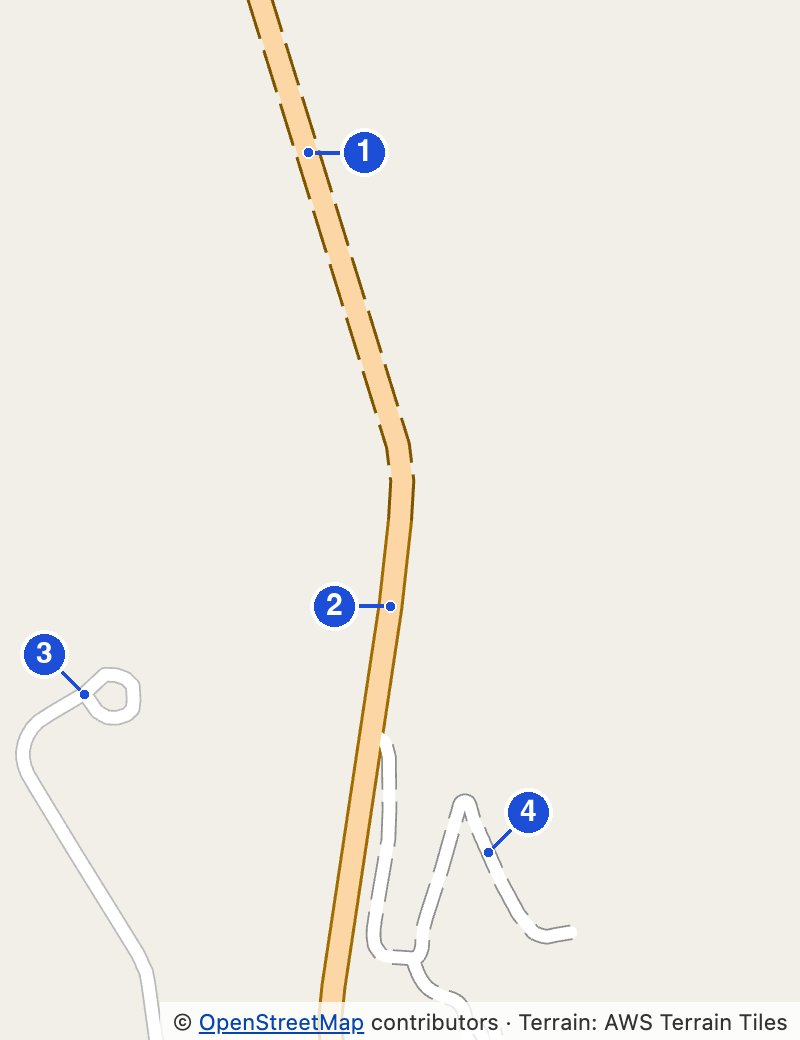
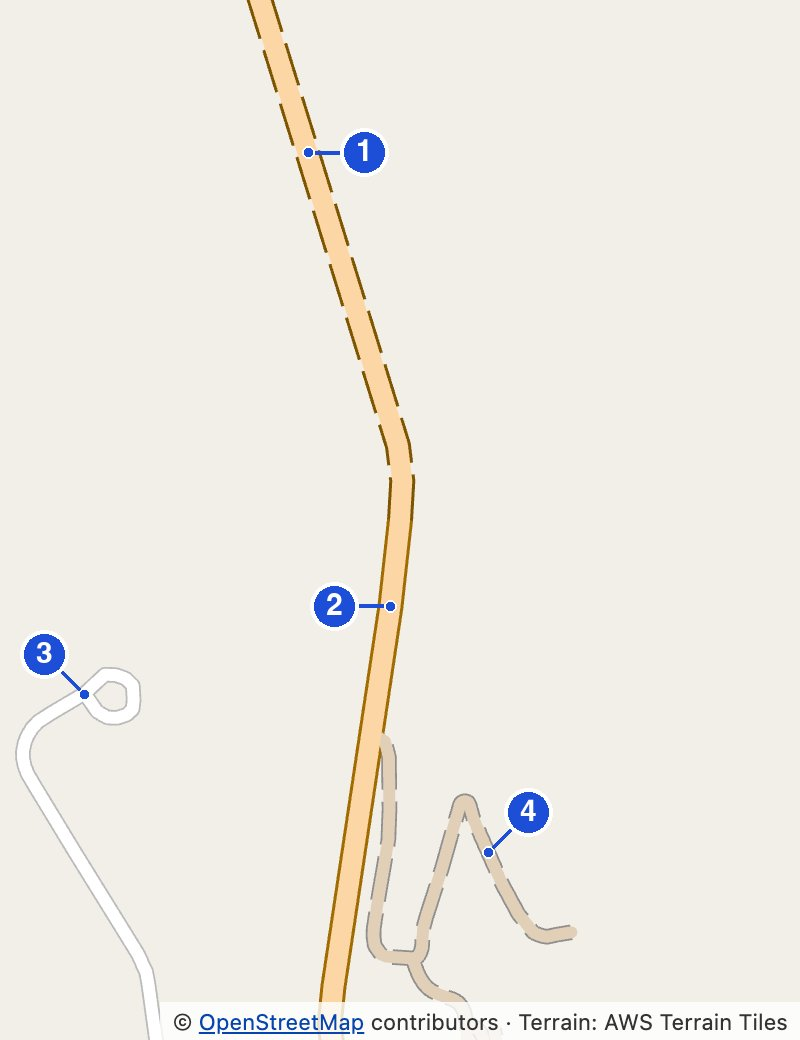
Reader test: picture set 2, dashed casing with the light tan fill on white unpaved roads; sessions tagged images: 2, picture URLs versioned so no cached set 1 shows

Changed region(s): [[0.4375, 0.7077, 0.7188, 0.9846]]

diff --git a/reader-test/index.html b/reader-test/index.html
@@ -104,6 +104,9 @@ const ENDPOINT = 'https://script.google.com/macros/s/AKfycbzgqOhJDVLUKdfWqVI3aOc
 
 const PLACES = ['bolivia', 'nepal', 'alberta', 'namibia', 'australia'];
 const STYLES = ['grain', 'centre-line', 'dashed-fill', 'dashed-casing', 'dashed-fill-full'];
+// Picture set, sent with the answers (images) and added to the picture URLs so no phone shows a cached older set.
+// 1 (no field in the sheet): until 2026-11-13. 2: dashed casing with the light tan fill on white unpaved roads.
+const IMAGES = 2;
 const $ = (id) => document.getElementById(id);
 const shuffle = (a) => { a = [...a]; for (let i = a.length - 1; i > 0; i--) { const j = Math.floor(Math.random() * (i + 1)); [a[i], a[j]] = [a[j], a[i]]; } return a; };
 const store = { get: (k) => { try { return localStorage.getItem(k); } catch { return null; } }, set: (k, v) => { try { localStorage.setItem(k, v); } catch {} } };
@@ -126,7 +129,7 @@ if (!st) {
     stripOrder: shuffle(STYLES), rank: [], clarityTaps: [],
     // id: never all digits, or the sheet stores it as a number and may round it.
     r: { id: crypto.randomUUID?.() ?? `r${Math.random().toString(36).slice(2)}`, version, started: new Date().toISOString(),
-      screen: `${screen.width}x${screen.height}@${devicePixelRatio}`, viewport: innerWidth, resumes: 0, maps: [] } };
+      screen: `${screen.width}x${screen.height}@${devicePixelRatio}`, viewport: innerWidth, resumes: 0, images: IMAGES, maps: [] } };
   // Where the link was posted (?src=fb, ?src=enduro...), to tell the groups apart; it goes in the sheet's raw column.
   const src = new URLSearchParams(location.search).get('src');
   if (src) st.r.src = src.slice(0, 20);
@@ -155,7 +158,7 @@ $('begin').addEventListener('click', async () => {
   $('begin').disabled = true;
   counts = await fetch('places.json').then((x) => x.json());
   st.r.trap = $('website').value;
-  STYLES.forEach((s) => { new Image().src = `img/clarity-${s}.jpg`; }); // warm the cache
+  STYLES.forEach((s) => { new Image().src = `img/clarity-${s}.jpg?v=${IMAGES}`; }); // warm the cache
   newMap();
 });
 
@@ -169,14 +172,14 @@ function newMap() {
 function renderMap() {
   const { k, maps, cur } = st, n = cur.answers.length;
   $('step').textContent = `Map ${k + 1}/${maps.length}`;
-  $('map').src = `img/${cur.place}-${cur.style}.jpg`;
+  $('map').src = `img/${cur.place}-${cur.style}.jpg?v=${IMAGES}`;
   $('roads').style.setProperty('--n', n);
   $('roads').innerHTML = Array.from({ length: n }, (_, i) =>
     `<button class="dot" data-road="${i}" aria-pressed="${cur.answers[i] === 'U'}" aria-label="Road ${i + 1} unpaved">${i + 1}</button>`).join('');
   $('next').textContent = k + 1 < maps.length ? 'Next map' : 'Next';
   hint();
   show('test');
-  if (maps[k + 1]) new Image().src = `img/${maps[k + 1].place}-${maps[k + 1].style}.jpg`; // preload the next map
+  if (maps[k + 1]) new Image().src = `img/${maps[k + 1].place}-${maps[k + 1].style}.jpg?v=${IMAGES}`; // preload the next map
 }
 const hint = () => {
   $('next-hint').textContent = st.cur.answers.includes('U') ? '' : 'If none look unpaved, just go on.';
@@ -203,7 +206,7 @@ function newClarity() { st.screen = 'clarity'; restart(); renderClarity(); save(
 function renderClarity() {
   st.rank ??= []; // a session saved by an earlier version of the page
   $('strips').innerHTML = st.stripOrder.map((s, i) =>
-    `<button class="pick" data-i="${i}"><img class="strip" src="img/clarity-${s}.jpg" alt="Drawing ${i + 1}" width="400" height="240"><span class="rank"></span></button>`).join('');
+    `<button class="pick" data-i="${i}"><img class="strip" src="img/clarity-${s}.jpg?v=${IMAGES}" alt="Drawing ${i + 1}" width="400" height="240"><span class="rank"></span></button>`).join('');
   ranks();
   show('clarity');
 }

diff --git a/research/reader-test/README.md b/research/reader-test/README.md
@@ -52,6 +52,8 @@ The page sends each finished test as one row to a Google Sheet, through a small 
 
 With `ENDPOINT` empty, the page runs in test mode: nothing is sent, and the answers show on the last screen (also with `?debug=1`). A finished test is remembered in the browser, so a reload does not count twice. The session is kept in the browser after every tap: someone who leaves comes back to the same map, with the same answers, order and id (column `resumes` in the raw JSON), and time away does not count in the map times or tap times. Someone who leaves early and never comes back still counts: what they answered so far is sent, and their row is updated if they come back and go on (one row per person, `stage` says how far they got: map1 to map5, clarity, done). A hidden field catches simple bots (column `trap` in the raw JSON).
 
+Picture sets: answers before 2026-11-13 saw set 1, where white unpaved roads in 4. Dashed casing have only the dashed outline; set 2 adds the light tan fill (only the dashed-casing pictures and strip changed, the answer key did not). The raw JSON has `"images":2` for set 2 and nothing for set 1. A session started on set 1 and resumed later keeps no tag but shows set 2 pictures for its remaining maps (rare). The link a person came from is in the raw JSON too, as `"src":"fb"` (links with `?src=`).
+
 Columns: per place, the style shown, the answers in road order (U tapped as unpaved, P not tapped), the position in that person's order, the time spent, and every tap in order with its time in seconds (`3U@1.2 1U@2.1 3-@2.5`: road 3 tapped, road 1 tapped, road 3 untapped); then the five strips of the last question in the order shown, the ranking (styles from clearest to least clear), best (first ranked) and worst (last, only from a full ranking), and the taps by position shown (`3@2.1 1@3.0 -3@4.2`: strip 3 ranked, strip 1 ranked, strip 3 taken out).
 
 ## Post text (for a riders' group)
